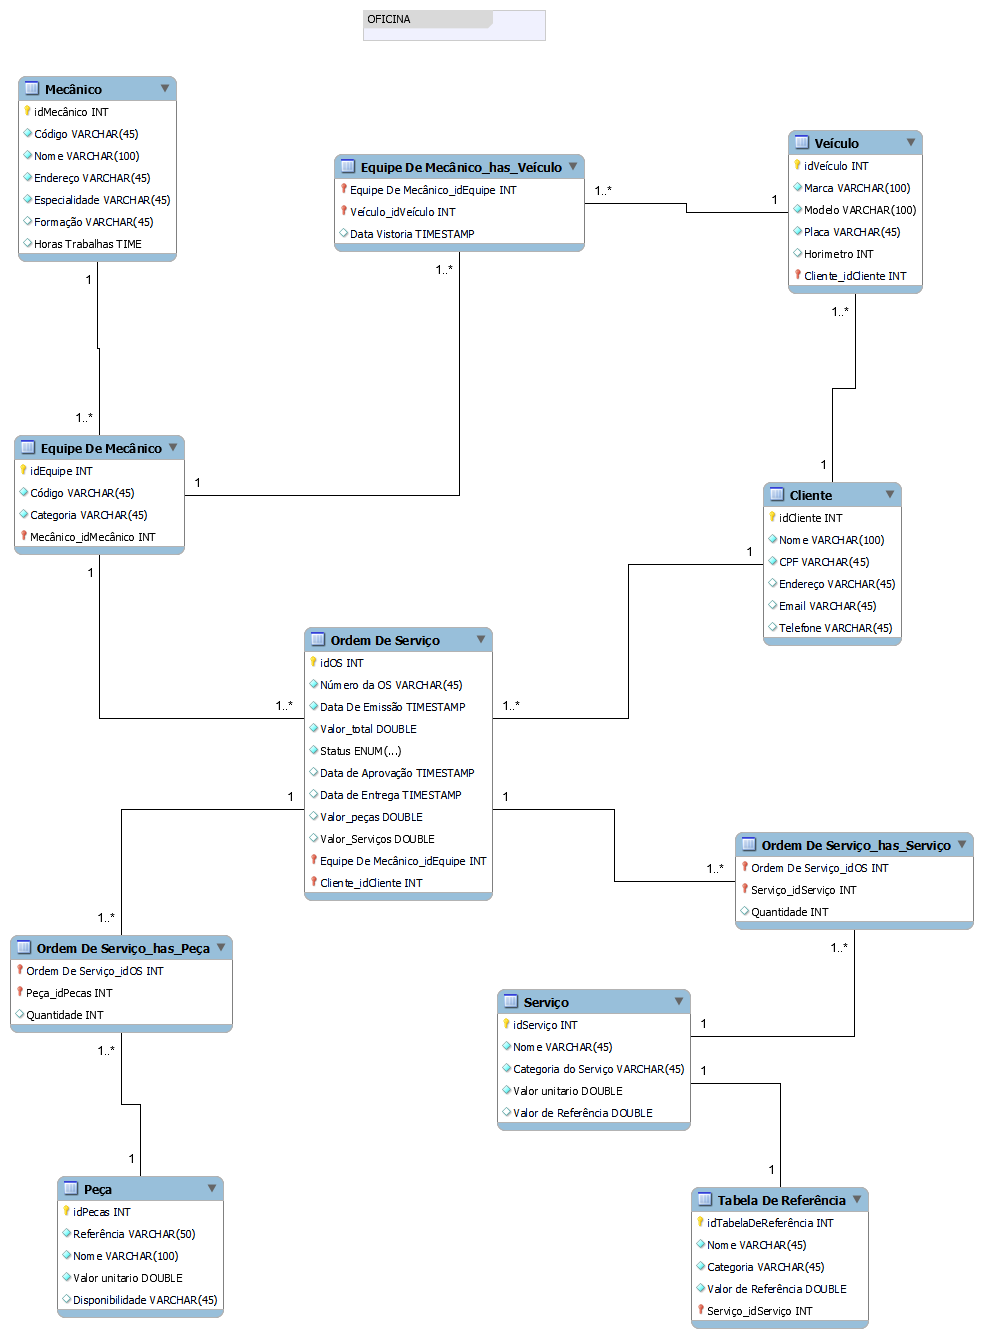
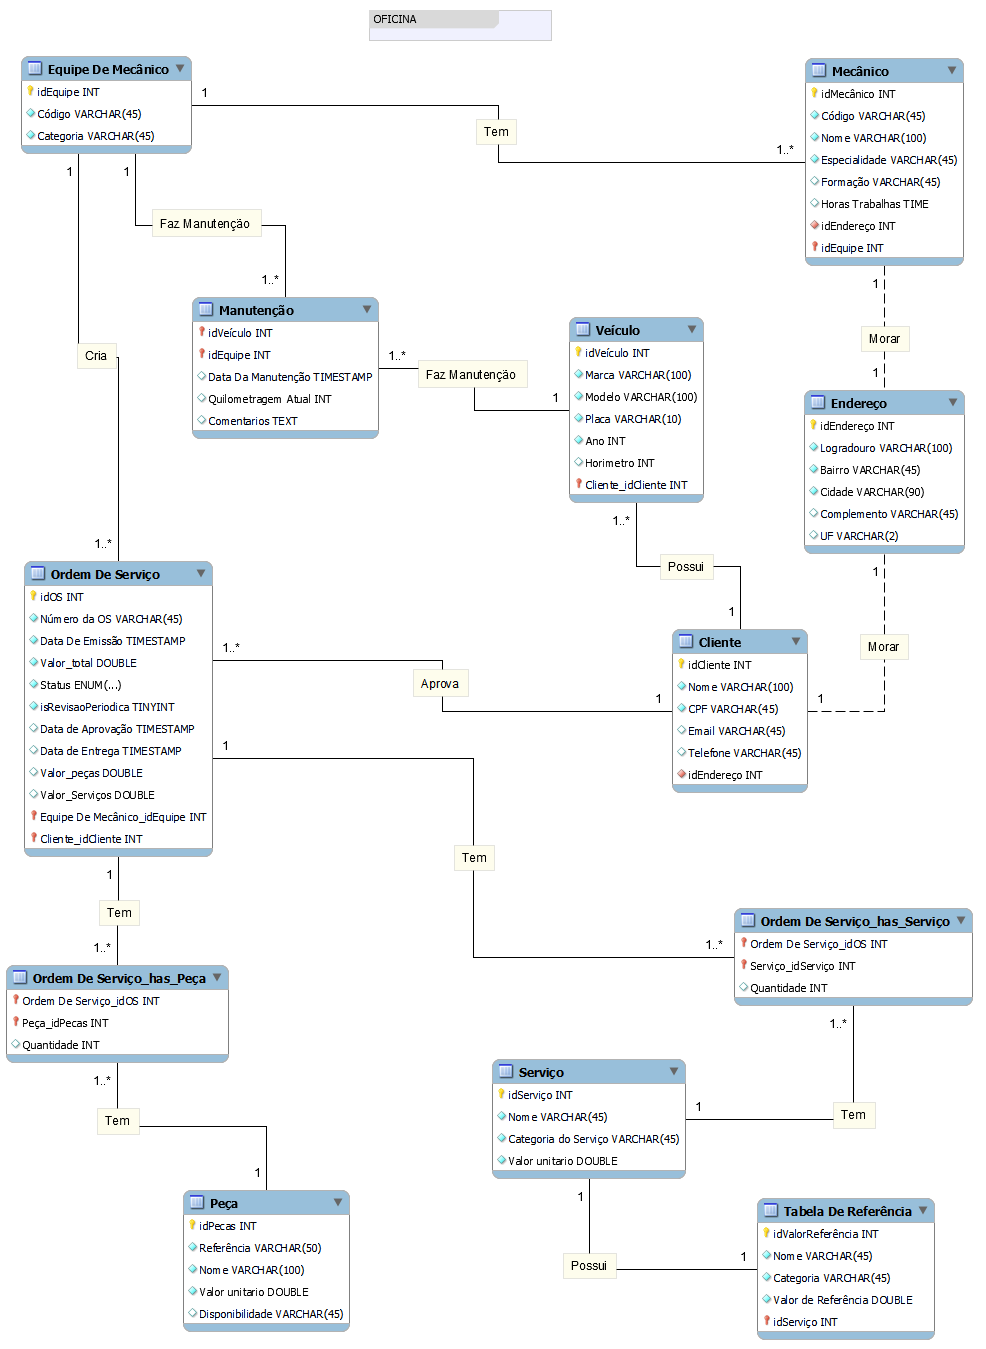
doc: update README file

diff --git a/README.md b/README.md
@@ -1,12 +1,138 @@
 # Diagramas De EER 
-O repositório possui três diagramas de Entidade Relacionamento Estendido, sendo cada um aplicado em um contexto diferente.
+O repositório possui diagrama de Entidade Relacionamento Estendido no contexto de oficina de carro, seguindo os seguintes requisitos:
 
- - Sendo os contextos:
-    - [OS](https://github.com/samuelfilho-dev/dio-projeto-modelo-conceitual/tree/main/modelo_os)
-    - [Universidade](https://github.com/samuelfilho-dev/dio-projeto-modelo-conceitual/tree/main/universidade)
-    - [E-Commerce](https://github.com/samuelfilho-dev/dio-projeto-modelo-conceitual/tree/main/E-commerce)
+  - Sistema de controle e gerenciamento de execução de ordens de serviço em uma oficina mecânica
+  - Clientes levam veículos à oficina mecânica para serem consertados ou para passarem por revisões periódicas
+  - Cada veículo é designado a uma equipe de mecânicos que identifica os serviços a serem executados e preenche uma OS com data de entrega.
+  - A partir da OS, calcula-se o valor de cada serviço, consultando-se uma tabela de referência de mão-de-obra
+  - O valor de cada peça também irá compor a OS cliente autoriza a execução dos serviços
+  - A mesma equipe avalia e executa os serviços
+  - Os mecânicos possuem código, nome, endereço e especialidade
+  - Cada OS possui: n°, data de emissão, um valor, status e uma data para conclusão dos trabalhos.
 
 
+## Diagrama da Oficina
+```mermaid
+classDiagram
+    class Cliente {
+      - Interger idCliente
+      - String Nome
+      - String CPF
+      - String Email
+      - String Telefone
+      - Interger idEndereço
+    }
+
+    class Mecânico {
+      - Interger idMecânico
+      - String Código
+      - String Nome
+      - String Especialidade
+      - String Formação
+      - TIME Horas Trabalhadas
+      - Interger idEndereço
+      - Interger idEquipe
+    }
+
+    class `Endereço` {
+      - Interger idEndereço
+      - String Logradouro
+      - String Bairro
+      - String Cidade
+      - String Complemento
+      - String UF
+    }
+
+    class `Veículo` {
+      - Interger idVeículo
+      - String Marca
+      - String Modelo
+      - String Placa
+      - Interger Horímetro
+      - Interger idCliente
+    }
+
+    class `Manutenção` {
+      - Interger idVeículo
+      - Interger idEquipe
+      - TIMESTAMP Data Da Manutenção
+      - Interger Quilometragem
+      - String Comentários
+    }
+
+    class `Equipe do Mecânico` {
+      - Interger idEquipe
+      - String Código 
+      - String Categoria
+    }
+
+    class `Ordem de Serviço` {
+      - Interger idOS
+      - String Número da OS
+      - TIMESTAMP Data da Emissão
+      - Double Valor Total
+      - ENUM Status
+      - Boolean isRevisaoPeriodica
+      - TIMESTAMP Data de Aprovação
+      - TIMESTAMP Data de Entrega
+      - Double Valor da Peças
+      - Double Valor dos Serviços
+      - Interger idEquipe
+      - Interger idCliente
+    }
+
+    class `Peça` {
+      - Interger idPecas
+      - String Referência
+      - String Nome
+      - String Valor Unitario
+      - String Disponbilidade
+    }
+
+    class `Serviço` {
+      - Interger idServiço
+      - String Nome
+      - String Categoria do Serviço
+      - Double Valor Unitario
+    }
+
+    class `Tabela de Referência` {
+      - Interger idValorReferência
+      - String Nome
+      - String Categoria
+      - Double Valor de Referência
+      - Interger idServiço
+    }
+
+    class `Ordem De Serviço_has_Peça` {
+      - Interger idOS
+      - Interger idPecas
+      - Interger Quantidade
+    }
+
+    class `Ordem De Serviço_has_Serviço` {
+      - Interger idOS
+      - Interger idServiços
+      - Interger Quantidade
+    }
+
+    Cliente "1" .. "1" `Endereço`: Morar
+    Cliente "1" --* "N" `Veículo`: Possui
+    Cliente "1" --* "N" `Ordem de Serviço`: Aprova
+    Mecânico "1" .. "1" `Endereço`: Morar
+    `Veículo` "1" --* "N" `Manutenção`: Faz Manutenção
+    `Equipe do Mecânico` "1" --* "N" `Mecânico`: Tem
+    `Equipe do Mecânico` "1" --* "N" `Manutenção`: Faz Manutenção
+    `Equipe do Mecânico` "1" --* "N" `Ordem de Serviço`: Cria
+    `Ordem de Serviço` "1" --* "N" `Ordem De Serviço_has_Peça`: Tem
+    `Ordem de Serviço` "1" --* "N" `Ordem De Serviço_has_Serviço`: Tem
+    `Peça` "1" --* "N" `Ordem De Serviço_has_Peça`: Tem
+    `Serviço` "1" --* "N" `Ordem De Serviço_has_Serviço`: Tem
+    `Serviço` "1" --* "N" `Tabela de Referência`: Tem
+   
+
+
+```
 
 ## Contribuir
  - Se você deseja contribuir para o projeto, siga estes passos:
